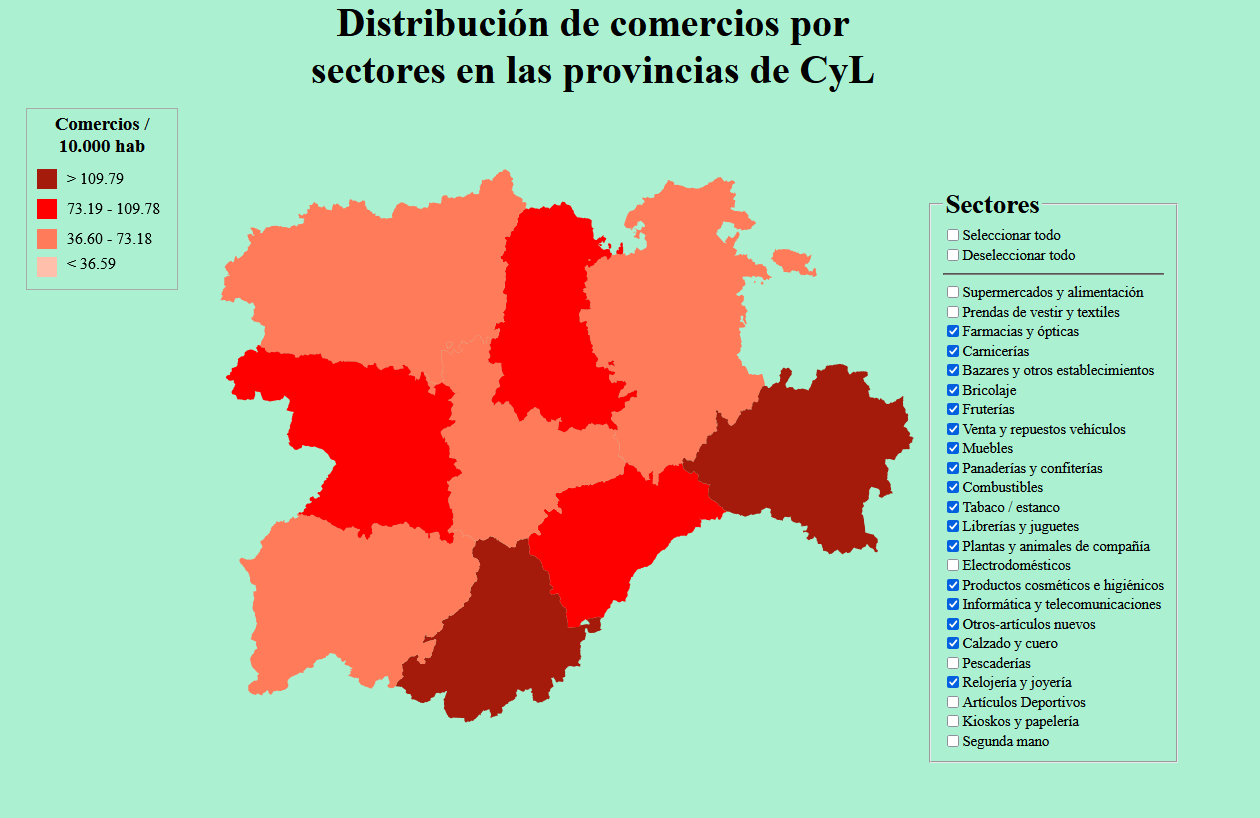
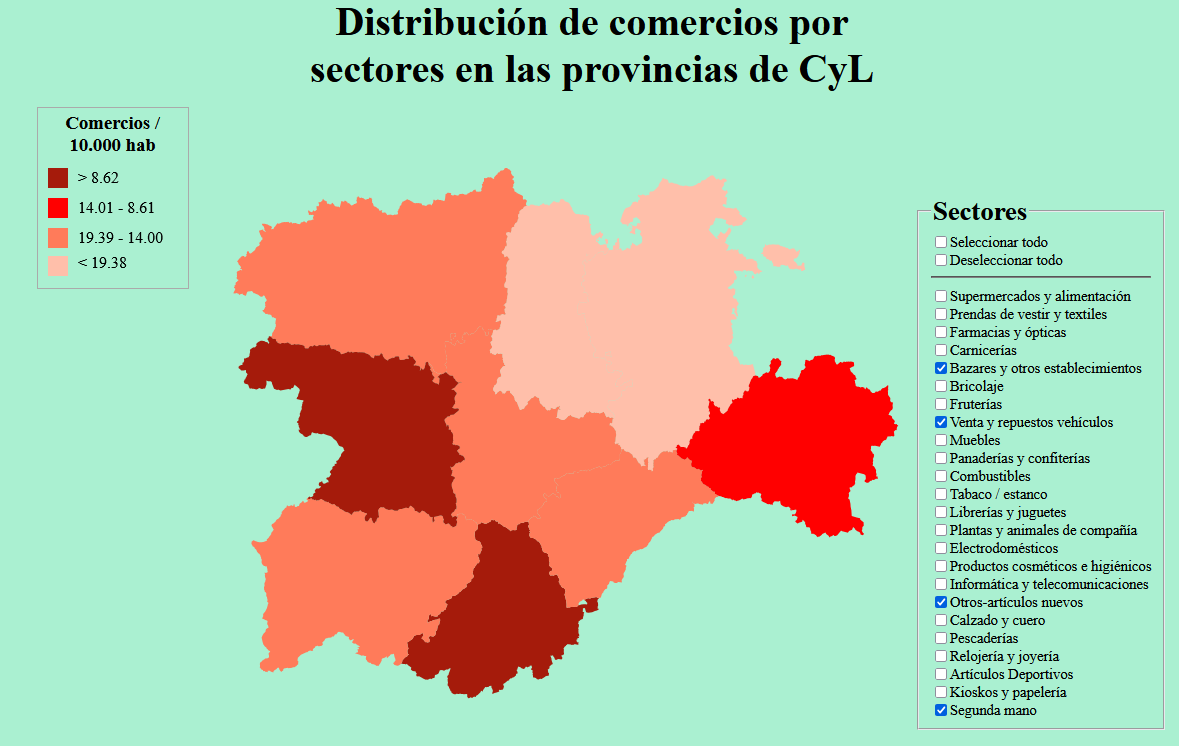
casi terminado

Changed region(s): [[0.0305, 0.1233, 0.9771, 0.9866], [0.2443, 0.0, 0.7328, 0.1233], [0.916, 0.2466, 0.9466, 0.3083]]

diff --git a/js/dibujar.js b/js/dibujar.js
@@ -2,9 +2,9 @@
 
 
 function modificarLeyenda(maxRatio){
-    var bajo = (maxRatio*0.45);
+    var bajo = (maxRatio*0.90);
     var medio =(maxRatio*0.65);
-    var medioAlto = (maxRatio*0.85);
+    var medioAlto = (maxRatio*0.40);
 
     if(maxRatio===0)
         d3.selectAll("text").text("-")
@@ -27,7 +27,7 @@ function modificarLeyenda(maxRatio){
 
 }
 
-
+var escHab = 10000;
 function calcularRatio(nombreProvincia){
     var totalCom = 0;
     for(var i=0;i<selec.length;i++){
@@ -36,7 +36,7 @@ function calcularRatio(nombreProvincia){
     }
     var hab = habitantes[prov.indexOf(nombreProvincia)];
 
-    return (totalCom / hab*10000);
+    return (totalCom / hab*escHab);
 }
 
 
@@ -48,13 +48,13 @@ function mostrarGraficoBarras(provincia) {
     document.getElementById("contenedorBarras").style.display = "flex";
     
 
-    document.querySelector("h1").innerHTML = "Nº de comercios por sector comercial en " + provincia;
+    document.querySelector("h1").innerHTML = "Nº de comercios por sector<br>comercial en " + provincia;
 
     // Preparar datos usando la estructura de establecimientos
     var dataProv = sectores.map((sector, i) => {
         // Solo incluir si el sector está seleccionado
         let cantidad = 0;
-        if (selec[i] && establecimientos[provincia] && establecimientos[provincia][sector]) {
+        if (establecimientos[provincia] && establecimientos[provincia][sector]) {
             cantidad = establecimientos[provincia][sector];
         }
         return {
@@ -62,7 +62,7 @@ function mostrarGraficoBarras(provincia) {
             cantidad: cantidad
         };
     }).filter(d => d.cantidad > 0) 
-      .sort((a, b) => b.cantidad - a.cantidad); 
+      .sort((a, b) => b.cantidad - a.cantidad);
 
     console.log("Datos preparados:", dataProv);
 
@@ -70,31 +70,32 @@ function mostrarGraficoBarras(provincia) {
     var svg = d3.select("#barSvg");
     svg.selectAll("*").remove();
 
-    var margin = {top: 20, right: 20, bottom: 150, left: 70};
-    var WIDTH = +svg.attr("width") - margin.left - margin.right;
-    var HEIGHT = +svg.attr("height") - margin.top - margin.bottom;
+    var margin = {top: 10, right: 20, bottom: 10, left: 170};
+
+    var WIDTH = document.getElementById("barrasDiv").offsetWidth -  margin.left - margin.right;
+    var HEIGHT = document.getElementById("barrasDiv").offsetHeight - margin.top - margin.bottom;
 
     // Crear grupo principal con márgenes
     var g = svg.append("g")
         .attr("transform", `translate(${margin.left},${margin.top})`);
 
     // Escalas
-    var x = d3.scaleBand()
-        .domain(dataProv.map(d => d.sector))
-        .range([0, WIDTH])
-        .padding(0.3);
-
-    var y = d3.scaleLinear()
+    var x = d3.scaleLinear()
         .domain([0, d3.max(dataProv, d => d.cantidad)])
         .nice()
-        .range([HEIGHT, 0]);
+        .range([0, WIDTH]);
 
-    // Eje X
+    var y = d3.scaleBand()
+        .domain(dataProv.map(d => d.sector))
+        .range([0, HEIGHT])
+        .padding(0.3);
+
+
+    // Eje Y
     g.append("g")
-        .attr("transform", `translate(0,${HEIGHT})`)
-        .call(d3.axisBottom(x))
+        .attr("id", "graph")
+        .call(d3.axisLeft(y))
         .selectAll("text")
-        .attr("transform", "rotate(-45)")
         .style("text-anchor", "end")
         .style("font-size", "9px");
 
@@ -104,13 +105,14 @@ function mostrarGraficoBarras(provincia) {
         .enter()
         .append("rect")
         .attr("class", "bar")
-        .attr("x", d => x(d.sector))
-        .attr("y", d => y(d.cantidad))
-        .attr("width", x.bandwidth())
-        .attr("height", d => HEIGHT - y(d.cantidad))
+        .attr("x", 0)
+        .attr("y", d => y(d.sector))
+        .attr("width", 0)
+        .attr("height", y.bandwidth())
         .attr("fill", "#ff0000ff")
         .attr("stroke", "#333")
-        .attr("stroke-width", 1);
+        .attr("stroke-width", 1)
+        .transition().delay(300).duration(2500).attr("width", d => x(d.cantidad));
 
     // Agregar valores encima de las barras (solo si la barra es visible)
     g.selectAll(".label")
@@ -118,12 +120,13 @@ function mostrarGraficoBarras(provincia) {
         .enter()
         .append("text")
         .attr("class", "label")
-        .attr("x", d => x(d.sector) + x.bandwidth() / 2)
-        .attr("y", d => y(d.cantidad) - 5)
+        .attr("x", 10)
+        .attr("y", d => y(d.sector) + y.bandwidth() / 2 + 3)
         .attr("text-anchor", "middle")
         .style("font-size", "10px")
         .style("font-weight", "bold")
-        .text(d => d.cantidad);
+        .text(d => d.cantidad)
+        .transition().delay(300).duration(2500).attr("x", d => x(d.cantidad) + 10);
 }
 
 function dibujarMapa(){
@@ -282,6 +285,7 @@ function dibujarMapa(){
              .attr("d", geoPath)
              .on("click",resaltaProvincia)
              .attr("fill", colorProvincia)
+             .attr("stroke", "#333333")
              .on("mouseover", handleMouseOver)
              .on("mouseout", handleMouseOut);
 
@@ -295,7 +299,7 @@ function dibujarMapa(){
              });
 
              // Animación
-             var escalaProvincia = escala * 5;
+             var escalaProvincia = escala * 10;
 
              var centroProvincia = geoPath.centroid(planoProvincia);
              var projectionProv = d3.geoMercator().scale(escalaProvincia);
@@ -306,12 +310,14 @@ function dibujarMapa(){
              projectionProv = projectionProv.translate([transXProv, transYProv]);
              geoPathProv = d3.geoPath(projectionProv);
 
-             d3.select(this).transition().duration(2000)
-                 .attr("d", geoPathProv(planoProvincia))
+             d3.selectAll("path").transition().duration(2000)
+                 .attr("fill", "#AAF0D1")
+                 .attr("d", geoPathProv)
                  .on("end", function() {
                      // Al terminar la animación, mostramos gráfico de barras
                      mostrarGraficoBarras(evento.target.id);
                  });
+
          }
 
          function colorProvincia(data, i){
@@ -320,9 +326,9 @@ function dibujarMapa(){
              var ratio = calcularRatio(provincia);
              if(maxRatio===0) return "black";
              console.log(maxRatio);
-             if (ratio > 0.85 * maxRatio) return "#a51b0b";      // Alto
+             if (ratio > 0.90 * maxRatio) return "#a51b0b";      // Alto
              if (ratio > 0.65 * maxRatio) return "#ff0000";       // Medio-alto
-             if (ratio > 0.45 * maxRatio) return "#ff7b5a";      // Medio
+             if (ratio > 0.40 * maxRatio) return "#ff7b5a";      // Medio
              return "#ffbfaa";
          }
 
@@ -332,11 +338,12 @@ function dibujarMapa(){
              if(maxRatio!==0) {
                  var provincia = d.properties.provincia;
                  var ratio = calcularRatio(provincia).toFixed(1);
-
+                 var posX, posY;
+                 [posX, posY] = d3.pointer(event);
                  svg.append("rect")
                      .attr("id", "r" + provincia)
-                     .attr("x", event.offsetX + 10)
-                     .attr("y", event.offsetY - 20)
+                     .attr("x", posX + 10)
+                     .attr("y", posY - 20)
                      .attr("width", 190)
                      .attr("height", 50)
                      .style("fill", "#FFFFDD")
@@ -344,18 +351,18 @@ function dibujarMapa(){
 
                  var tooltip = svg.append("text")
                      .attr("id", "t" + provincia)
-                     .attr("x", event.offsetX + 20)
-                     .attr("y", event.offsetY + 5);
+                     .attr("x", posX + 20)
+                     .attr("y", posY + 5);
 
                  tooltip.append("tspan")
-                     .attr("x", event.offsetX + 20)
+                     .attr("x", posX + 20)
                      .attr("dy", 0)
                      .text(provincia + ": " + ratio + " comercios");
 
                  tooltip.append("tspan")
-                     .attr("x", event.offsetX + 80)
+                     .attr("x", posX+ 90)
                      .attr("dy", "1.2em")  // Espaciado entre líneas
-                     .text("              / 10000 hab");
+                     .text("/" + escHab +" hab");
              }
          }
 

diff --git a/index.html b/index.html
@@ -72,7 +72,7 @@
   }
 
   input[type="checkbox"]{
-    margin-bottom: 4px;
+    margin-bottom: 2px;
     width: 12px;
     height: 12px;
     cursor: pointer;
@@ -85,15 +85,19 @@
 
   #barrasDiv{
     height:80%;
-    aspect-ratio: 4/3;
+    aspect-ratio: 3/2;
     margin: 10px 0 0 10px;
-    border:1px solid #aaa;
     justify-self: center;
+  }
+
+  #barSvg{
+    height: 100%;
+    width: 100%;
   }
 
   #btnVolverMapa{
       position: absolute; /* Sacar del flujo normal */
-      left: 7%; /* Pegado a la izquierda */
+      left: 5%; /* Pegado a la izquierda */
       top: 0px; /* Separación desde arriba */
       height: 50px;
       width: auto;
@@ -173,7 +177,7 @@
   <button id="btnVolverMapa">Volver al mapa</button>
 
   <div id="barrasDiv">
-    <svg id="barSvg" width="650" height="450">
+    <svg id="barSvg">
       <!-- Se vacía y llena con D3 al clicar provincia -->
     </svg>
   </div>
